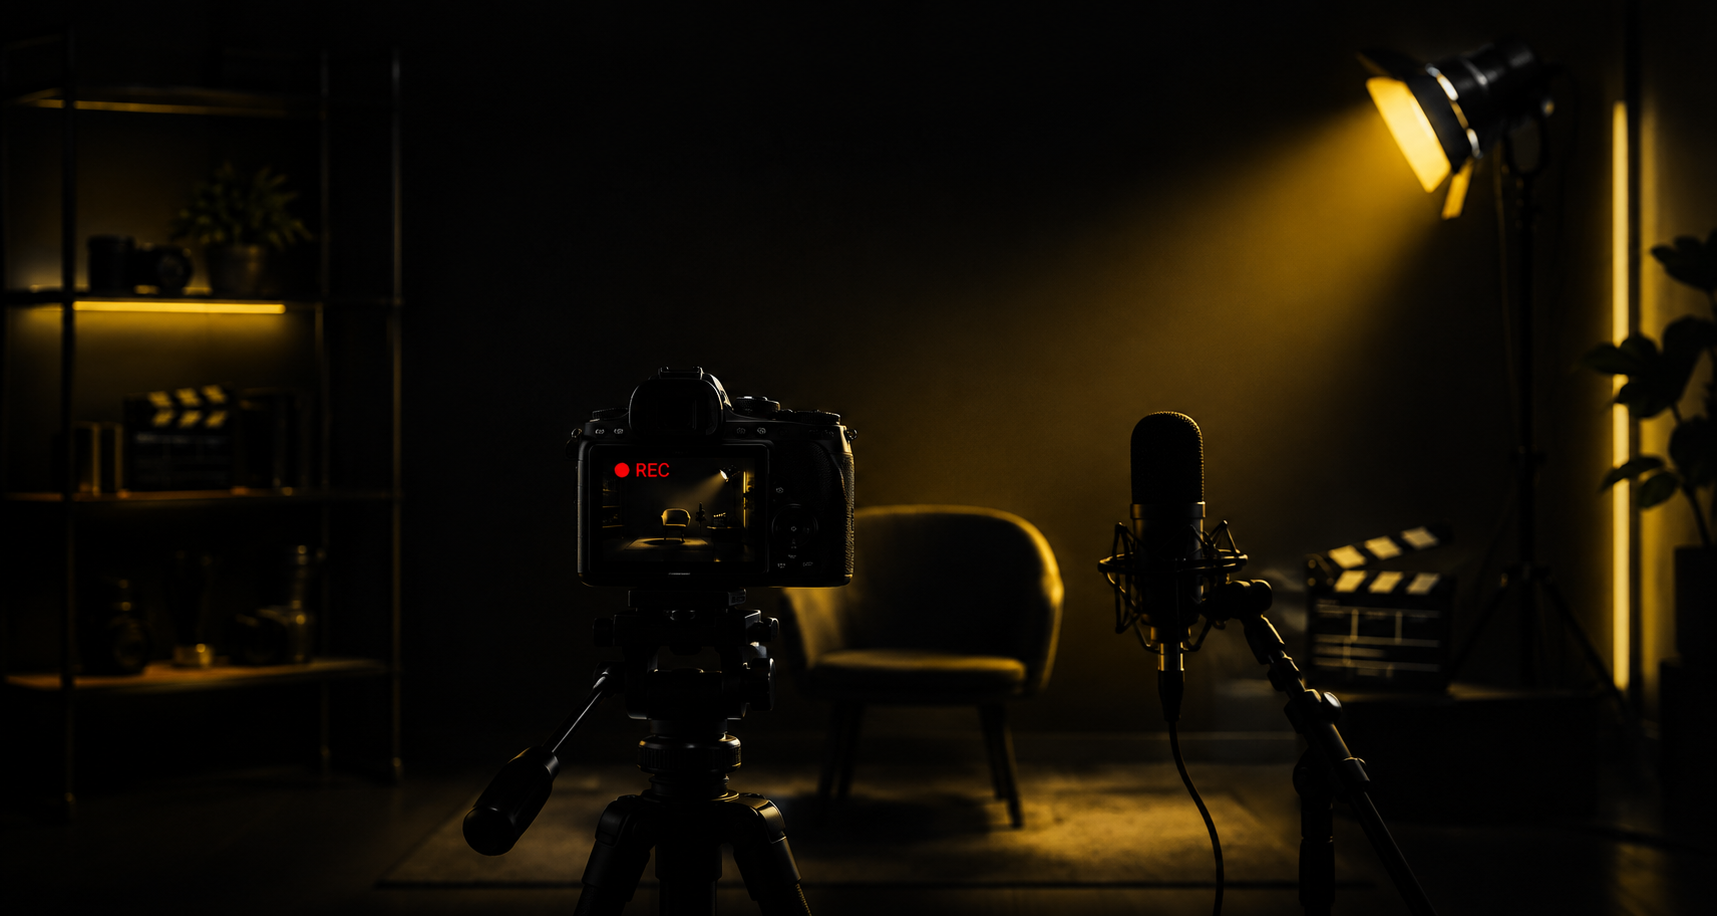
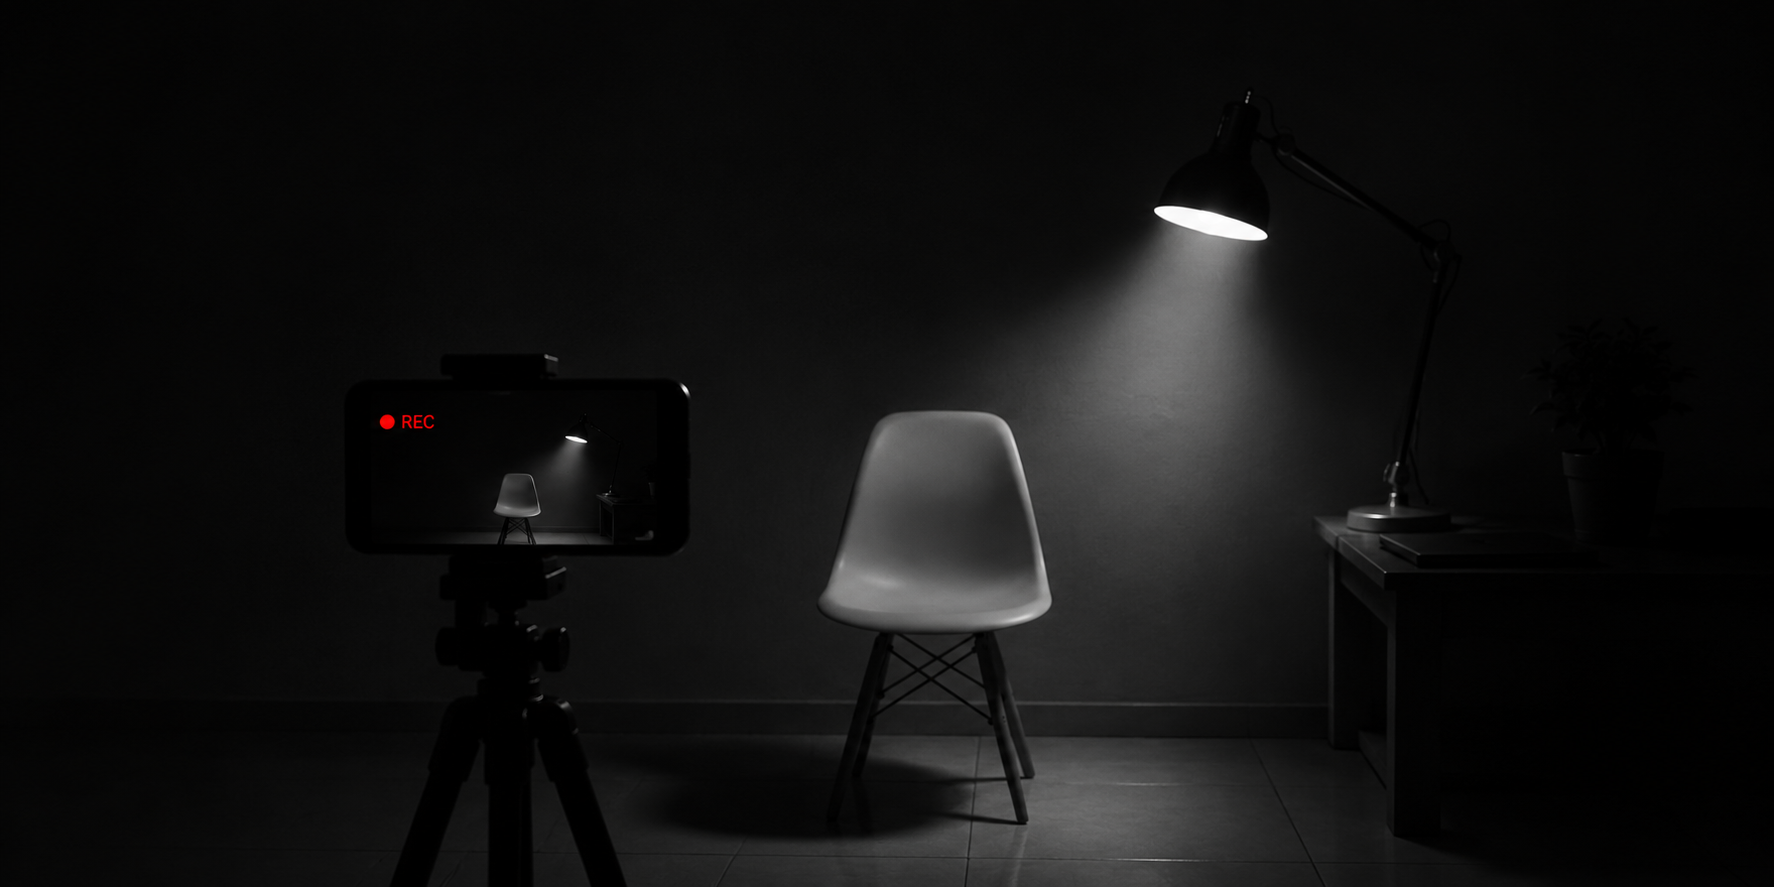
docs(sobre): overhaul the about page with updated content and styling
remove old hero section and replace with new page banner, rewrite all page content to better reflect the project's mission, restructure page sections with new UI components, update typography and styling, rework tool descriptions and CTA, add new rec.png asset and update banner-sobre.png

diff --git a/one-take-studio/sobre.html b/one-take-studio/sobre.html
@@ -40,10 +40,7 @@
     padding: 40px 24px 64px;
   }
 
-  /* ---------- HERO ---------- */
-  #hero{
-    display: none;
-  }
+  /* ---------- HERO (removido, banner assume) ---------- */
 
   /* ---------- BANNER ---------- */
   #page-banner{
@@ -79,24 +76,96 @@
     #page-banner::after{ height: 16px; }
   }
 
+  /* ---------- KICKER / TITULO ---------- */
+  .kicker{
+    font-family: var(--font-mono);
+    font-size: 12px;
+    letter-spacing: 0.3em;
+    text-transform: uppercase;
+    color: var(--accent-amber);
+    margin: 26px 0 0 0;
+  }
+
   h1{
     font-family: var(--font-display);
     font-weight: 900;
     font-size: clamp(24px, 4.5vw, 32px);
-    margin: 26px 0 10px 0;
+    margin: 6px 0 20px 0;
     letter-spacing: -0.02em;
   }
 
-  .tagline{
-    color: var(--text-dim);
-    font-size: 14px;
-    line-height: 1.65;
-    margin: 0 0 30px 0;
-    padding-bottom: 24px;
+  /* ---------- INTRO / MANIFESTO ---------- */
+  .story{
+    padding-bottom: 28px;
+    margin-bottom: 30px;
     border-bottom: 1px solid var(--panel-line);
   }
+  .story p{
+    color: var(--text-dim);
+    font-size: 16px;
+    line-height: 1.7;
+    margin: 0 0 9px 0;
+  }
+  .story .doubts{
+    margin: 2px 0 14px 0;
+    padding-left: 14px;
+    border-left: 2px solid var(--panel-line);
+  }
+  .story .doubts p{
+    font-style: italic;
+    opacity: 0.72;
+    margin-bottom: 6px;
+  }
 
-  .tagline strong{ color: var(--accent-amber); font-weight: 600; }
+  /* ---------- DESTAQUES ---------- */
+  p.strong{ color: var(--text-main); font-weight: 600; }
+  p.hl{ color: var(--accent-amber); font-weight: 700; }
+  .sub{ opacity: 0.62; }
+  p.rec{ color: var(--accent-red); }
+  p.big{
+    font-family: var(--font-display);
+    font-weight: 900;
+    font-size: clamp(20px, 4vw, 30px);
+    letter-spacing: -0.01em;
+    line-height: 1.3;
+    margin: 20px 0 16px 0;
+  }
+  .brand-end{
+    color: var(--accent-amber);
+    letter-spacing: 0.14em;
+  }
+
+  /* cartão de frases */
+  .turn{
+    background: var(--card);
+    border: 1px solid var(--panel-line);
+    border-radius: 10px;
+    padding: 16px 18px;
+    margin: 14px 0;
+  }
+  .turn p{ margin-bottom: 6px; }
+  .turn p:last-child{ margin-bottom: 0; }
+
+  /* lista "Sem X." */
+  .no-list{
+    background: var(--card);
+    border: 1px solid var(--panel-line);
+    border-radius: 10px;
+    padding: 6px 18px;
+    margin: 6px 0 12px 0;
+  }
+  .no-list p{
+    display: flex;
+    align-items: center;
+    gap: 10px;
+    margin: 0;
+    padding: 8px 0;
+    font-size: 15.5px;
+    border-bottom: 1px solid var(--panel-line);
+    color: var(--text-main);
+  }
+  .no-list p:last-child{ border-bottom: none; }
+  .no-list .chk{ color: var(--accent-green); flex-shrink: 0; font-weight: 700; }
 
   /* ---------- SECTIONS ---------- */
   section{ margin-bottom: 34px; }
@@ -104,7 +173,7 @@
   h2{
     font-family: var(--font-display);
     font-weight: 700;
-    font-size: 15px;
+    font-size: 16px;
     letter-spacing: 0.02em;
     margin: 0 0 12px 0;
     display: flex;
@@ -122,7 +191,7 @@
 
   p{
     color: var(--text-dim);
-    font-size: 13px;
+    font-size: 15.5px;
     line-height: 1.75;
     margin: 0 0 12px 0;
   }
@@ -144,7 +213,7 @@
     align-items: flex-start;
     gap: 10px;
     padding: 9px 0;
-    font-size: 13px;
+    font-size: 15.5px;
     line-height: 1.6;
     color: var(--text-dim);
     border-bottom: 1px solid var(--panel-line);
@@ -172,11 +241,11 @@
   .tool h3{
     font-family: var(--font-display);
     font-weight: 700;
-    font-size: 14px;
+    font-size: 15.5px;
     margin: 0 0 5px 0;
   }
   .tool p{
-    font-size: 11.5px;
+    font-size: 14px;
     line-height: 1.6;
     margin: 0;
     color: var(--text-dim);
@@ -188,7 +257,7 @@
     border: 1px solid rgba(57, 255, 136, 0.25);
     border-radius: 10px;
     padding: 16px 18px;
-    font-size: 12.5px;
+    font-size: 15px;
     line-height: 1.7;
     color: var(--text-dim);
   }
@@ -197,9 +266,12 @@
   /* CTA */
   #cta{
     margin-top: 8px;
-    text-align: center;
     padding-top: 26px;
     border-top: 1px solid var(--panel-line);
+  }
+  .cta-actions{
+    text-align: center;
+    margin-top: 30px;
   }
   #cta-btn{
     font-family: var(--font-display);
@@ -223,91 +295,158 @@
 <body>
 
 <div id="app">
-  <div id="hero">
-    <img class="mark" src="image/nova-image-perfil.png" alt="Take Um">
-  </div>
-
   <div id="page-banner">
     <img src="image/banner-sobre.png" alt="Take Um - Sobre">
   </div>
 
+  <p class="kicker">Sobre o Take Um</p>
   <h1>O estúdio de quem tá começando</h1>
-  <p class="tagline">
-    Ferramentas simples que rodam direto no seu navegador pra você <strong>planejar, roteirizar e gravar</strong>
-    seus vídeos como numa produção de verdade — com o que você já tem em casa.
-  </p>
+
+  <div class="story">
+    <p>Todo vídeo começa antes da câmera ser ligada.</p>
+    <p>Começa com uma ideia.</p>
+    <p>Depois vem a dúvida.</p>
+    <div class="doubts">
+      <p>Será que vai ficar bom?</p>
+      <p>E se ninguém assistir?</p>
+      <p>Eu ainda não estou preparado.</p>
+      <p>Amanhã eu gravo.</p>
+    </div>
+    <p>E, muitas vezes, o vídeo nunca acontece.</p>
+    <p class="big hl">O Take Um nasceu para mudar isso.</p>
+    <p>
+      Um conjunto de ferramentas simples, gratuitas e em português para quem quer começar a criar conteúdo —
+      mesmo gravando sozinho, com o celular e com o que já tem em casa.
+    </p>
+    <div class="turn">
+      <p>Porque você não precisa de uma equipe.</p>
+      <p>Não precisa de um estúdio.</p>
+      <p>Não precisa dos equipamentos mais caros.</p>
+      <p class="hl">Precisa dar o primeiro passo.</p>
+    </div>
+  </div>
 
   <section>
-    <h2><span class="dot"></span>O que é</h2>
+    <h2><span class="dot"></span>O que é o Take Um?</h2>
+    <p>O <strong>Take Um</strong> é um estúdio digital para quem cria sozinho.</p>
+    <p>Um lugar para transformar uma ideia em um vídeo.</p>
     <p>
-      O <strong>Take Um</strong> é uma suíte de ferramentas pro criador de conteúdo solo.
-      Em vez de dez abas abertas, apps pagos e planilhas confusas, você tem tudo num lugar só:
-      do momento em que a ideia surge até o take gravado.
+      Você pode pensar, organizar, roteirizar, preparar e gravar sem precisar ficar pulando entre
+      dezenas de aplicativos, planilhas e ferramentas diferentes.
     </p>
-    <p>
-      Nada de instalação, assinatura ou conta. Abriu a página, começou a criar.
-    </p>
+    <p>Tudo direto no navegador.</p>
+    <div class="no-list">
+      <p><span class="chk">✓</span>Sem instalação</p>
+      <p><span class="chk">✓</span>Sem assinatura</p>
+      <p><span class="chk">✓</span>Sem complicação</p>
+    </div>
+    <p><strong>Você abre.</strong> <strong>Começa.</strong> <strong>E grava.</strong></p>
   </section>
 
   <section>
-    <h2><span class="dot"></span>Pra quem é</h2>
+    <h2><span class="dot"></span>Feito para quem ainda não começou</h2>
+    <p>
+      O <strong>Take Um</strong> foi pensado principalmente para quem está naquele momento em que a
+      vontade de criar já existe — mas o primeiro vídeo ainda não saiu.
+    </p>
+    <p>Para quem:</p>
     <ul class="who-list">
-      <li><span class="chk">✓</span>Quem tá começando agora e não sabe por onde começar</li>
-      <li><span class="chk">✓</span>Quem grava sozinho, de celular, sem equipe</li>
-      <li><span class="chk">✓</span>Quem não tem orçamento pra software e equipamento caro</li>
-      <li><span class="chk">✓</span>Quem quer se organizar sem burocracia</li>
-      <li><span class="chk">✓</span>Quem quer parecer mais profissional mesmo no começo</li>
+      <li><span class="chk">✓</span>Quer começar um canal, mas não sabe por onde começar</li>
+      <li><span class="chk">✓</span>Grava sozinho, com celular ou computador</li>
+      <li><span class="chk">✓</span>Não tem equipe ou um estúdio profissional</li>
+      <li><span class="chk">✓</span>Quer se organizar sem transformar criação em burocracia</li>
+      <li><span class="chk">✓</span>Não quer gastar uma fortuna em softwares e equipamentos</li>
+      <li><span class="chk">✓</span>Quer fazer seu primeiro vídeo parecer mais profissional</li>
     </ul>
+    <p class="strong">Você não precisa esperar estar pronto. <span class="sub">O processo também faz parte do aprendizado.</span></p>
   </section>
 
   <section>
-    <h2><span class="dot"></span>O que tem dentro</h2>
+    <h2><span class="dot"></span>Um take de cada vez</h2>
+    <p>No <strong>Take Um</strong>, cada ferramenta resolve uma parte dessa jornada.</p>
     <div id="tools">
       <div class="tool">
-        <div class="t-icon" style="background:var(--accent-amber)22; color:var(--accent-amber)">▤</div>
-        <h3>Teleprompter</h3>
-        <p>Leia o roteiro rolando na tela enquanto grava, com câmera embutida e gravação direto no navegador.</p>
+        <div class="t-icon" style="background:var(--accent-amber)22; color:var(--accent-amber)">✦</div>
+        <h3>Ideia</h3>
+        <p>Tire a ideia da cabeça e coloque no papel.</p>
       </div>
       <div class="tool">
-        <div class="t-icon" style="background:var(--accent-red)22; color:var(--accent-red)">▣</div>
-        <h3>Gerador de Capa</h3>
-        <p>Crie a capa do vídeo: título, emoji, cor de fundo — e baixe o PNG pronto para usar.</p>
+        <div class="t-icon" style="background:var(--accent-purple)22; color:var(--accent-purple)">✍</div>
+        <h3>Roteiro</h3>
+        <p>Organize o que você quer dizer antes de apertar REC.</p>
       </div>
       <div class="tool">
         <div class="t-icon" style="background:var(--accent-blue)22; color:var(--accent-blue)">◫</div>
-        <h3>Painel de Pauta</h3>
-        <p>Organize suas ideias por etapas: ideia, roteiro, gravado, editado e postado.</p>
-      </div>
-      <div class="tool">
-        <div class="t-icon" style="background:var(--accent-purple)22; color:var(--accent-purple)">◧</div>
-        <h3>Claquete Digital</h3>
-        <p>Contagem regressiva, bate-claquete com som e cronômetro de take, com histórico.</p>
+        <h3>Pauta</h3>
+        <p>Transforme o roteiro em um plano simples para a gravação.</p>
       </div>
       <div class="tool">
         <div class="t-icon" style="background:var(--accent-green)22; color:var(--accent-green)">✓</div>
         <h3>Checklist</h3>
-        <p>Lista pré-gravação: bateria, microfone, luz, isolamento e muito mais.</p>
+        <p>Confira bateria, microfone, luz, ambiente e tudo o que pode fazer você parar no meio do caminho.</p>
       </div>
       <div class="tool">
-        <div class="t-icon" style="background:var(--accent-amber)22; color:var(--accent-amber)">✍</div>
-        <h3>Roteirizador</h3>
-        <p>Estruture o roteiro: gancho, problema, solução com tempo e CTA.</p>
+        <div class="t-icon" style="background:var(--accent-amber)22; color:var(--accent-amber)">▤</div>
+        <h3>Teleprompter</h3>
+        <p>Tenha seu roteiro na tela enquanto grava, direto pelo navegador.</p>
+      </div>
+      <div class="tool">
+        <div class="t-icon" style="background:var(--accent-red)22; color:var(--accent-red)">◧</div>
+        <h3>Claquete</h3>
+        <p>Prepare o take, faça a contagem e registre suas gravações.</p>
+      </div>
+      <div class="tool">
+        <div class="t-icon" style="background:var(--accent-red)22; color:var(--accent-red)">▣</div>
+        <h3>Capa</h3>
+        <p>Crie uma capa simples para dar ao seu vídeo a primeira impressão que ele merece.</p>
       </div>
     </div>
+  </section>
+
+  <section>
+    <h2><span class="dot"></span>Sem estúdio. Sem equipe. Sem desculpas.</h2>
+    <p>O <strong>Take Um</strong> não foi criado para substituir uma grande produção.</p>
+    <p class="strong">Foi criado para tornar possível a primeira produção.</p>
+    <div class="turn">
+      <p>Aquela feita no quarto.</p>
+      <p>Na sala.</p>
+      <p>Na cozinha.</p>
+      <p class="sub">Com o celular apoiado em alguns livros.</p>
+      <p class="sub">Com uma luz improvisada.</p>
+      <p class="sub">Com um microfone simples.</p>
+      <p class="hl">Com medo mesmo.</p>
+    </div>
+    <p>Porque é assim que muita gente começa.</p>
+    <p>E talvez o mais importante seja simplesmente:</p>
+    <p class="big hl">começar.</p>
   </section>
 
   <section>
     <h2><span class="dot"></span>Seus dados ficam com você</h2>
     <div id="data-banner">
-      <strong>Sem conta, sem nuvem, sem assinatura.</strong> Tudo o que você salva fica no seu próprio navegador.
-      Seus dados não saem do seu aparelho. Usamos apenas estatísticas anônimas de visita pra entender como o
-      site é usado — sem identificar quem você é.
+      <strong>Sem conta. Sem nuvem. Sem assinatura.</strong>
+      O <strong>Take Um</strong> foi pensado para ser simples também por dentro — os dados que você salva
+      ficam no próprio navegador do seu aparelho. Não precisamos saber quem você é para ajudar você a criar.
+      Usamos apenas estatísticas anônimas de visita para entender como o site é utilizado e melhorar a experiência.
     </div>
   </section>
 
-  <div id="cta">
-    <button id="cta-btn">Começar a criar</button>
-  </div>
+  <section id="cta">
+    <h2><span class="dot"></span>Agora é com você</h2>
+    <p>Você já teve uma ideia.</p>
+    <p>Talvez esteja esperando o momento certo.</p>
+    <p>Talvez esteja esperando o equipamento certo.</p>
+    <p>Talvez esteja esperando perder a vergonha.</p>
+    <p>Talvez esteja esperando o vídeo ficar perfeito.</p>
+    <p>Mas existe uma coisa que nenhum equipamento, software ou ferramenta pode fazer por você:</p>
+    <p class="big rec">apertar REC.</p>
+    <p>O <strong>Take Um</strong> pode ajudar com todo o resto.</p>
+    <p>Abra. Escolha sua ideia. Prepare o primeiro take. E <strong>comece</strong>.</p>
+    <p class="big brand-end">TAKE UM.</p>
+    <div class="cta-actions">
+      <button id="cta-btn">Começar a criar</button>
+    </div>
+  </section>
 </div>
 
 <script>
